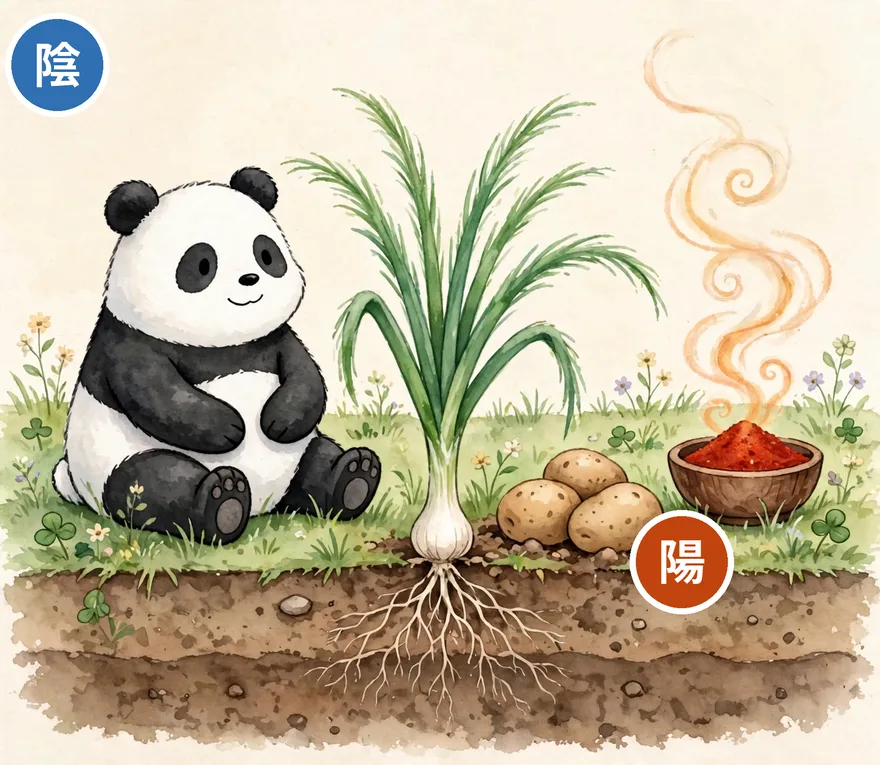
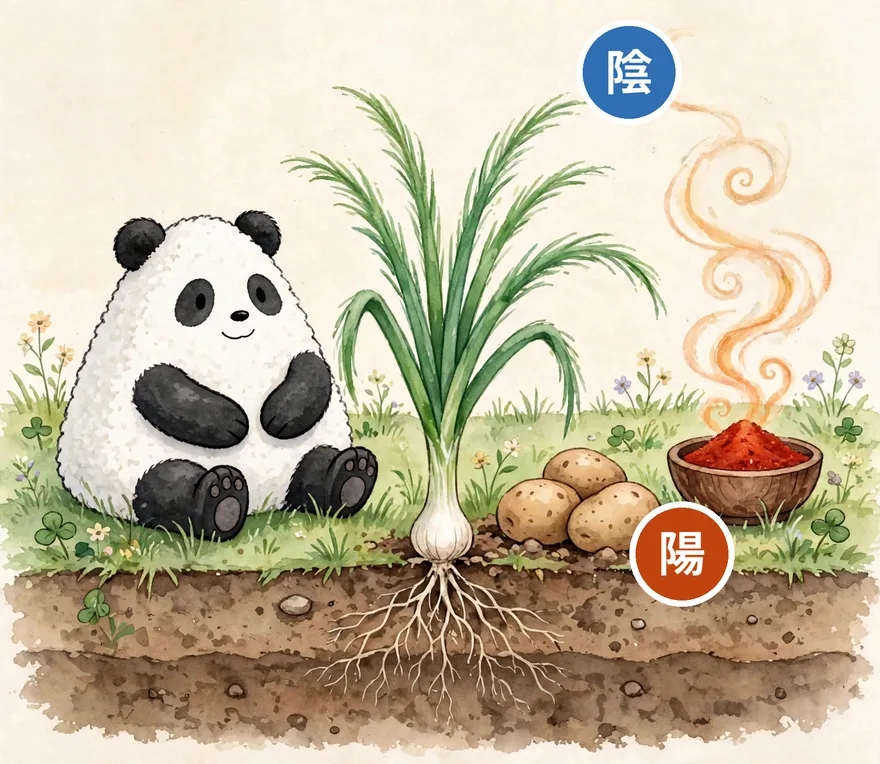
形と密度イラスト修正：パンダをおにぎり型・チークなしに、陰バッジをネギと香りの間へ移動

diff --git a/index.html b/index.html
@@ -3442,7 +3442,7 @@
         <div class="inyo-wis"><b style="color:#c1440e;">陽＝求心性</b>：中心へ集まっていく力です。植物の根のように、地面の奥、地球の中心へ向かって伸びていきます。</div>
         <div class="inyo-wis"><b style="color:#2f6fb2;">陰＝遠心性</b>：外へ広がっていく力です。植物の葉や茎のように、空や宇宙へ向かって伸びていきます。</div>
         <div class="inyo-wis"><b>形と密度でも見られるよ</b>：ぎゅっと丸くて密度が高いもの（じゃがいものような、まん丸なもの）は「陽」に。ふわっと広がるもの、細長いもの（ネギのようなもの）、香りが広がるもの（スパイスのようなもの）は「陰」に寄ります。</div>
-        <img class="inyo-kiso" loading="lazy" src="inyo-katachi.webp" alt="畑の断面のイラスト。ふわっと広がるネギの葉と土の中の根、丸くぎゅっとしたじゃがいも、香りが広がるスパイスの器。そばでパンダが見ている" width="880" height="765" style="height:auto">
+        <img class="inyo-kiso" loading="lazy" src="inyo-katachi.webp" alt="畑の断面のイラスト。ふわっと広がるネギの葉と土の中の根、丸くぎゅっとしたじゃがいも、香りが広がるスパイスの器。そばでパンダが見ている" width="880" height="764" style="height:auto">
       </div>
       <p class="dict3-lead" style="margin-top:12px;">ひとつの植物の中にも、根っこの「陽」と、葉っぱの「陰」が、<br>どちらもあるんだね。</p>
       <p class="inyo-kiso-note">ひとつ、注記だよ。東洋医学の陰陽では「陽は上へ・外へ、陰は下へ・内へ」と置くことが多くて、桜沢さんの見方とは、上下の割り当てが逆に見えることがあるよ。本によって、同じ食べ物の陰陽が逆に書かれることもあるんだ。この辞典は、マクロビオティックの眺め方で統一しているよ。</p>
